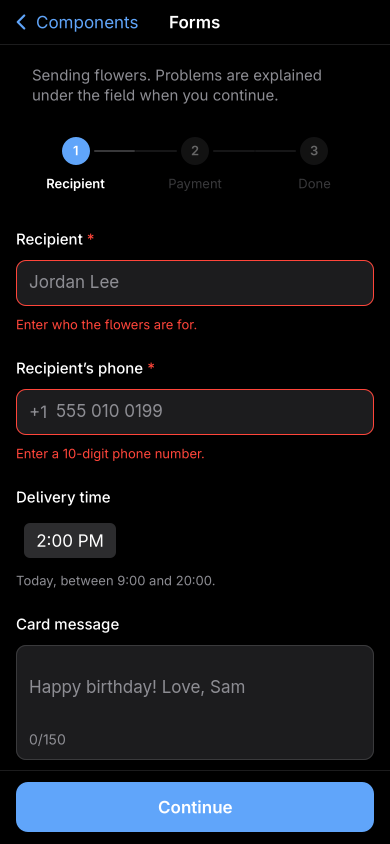
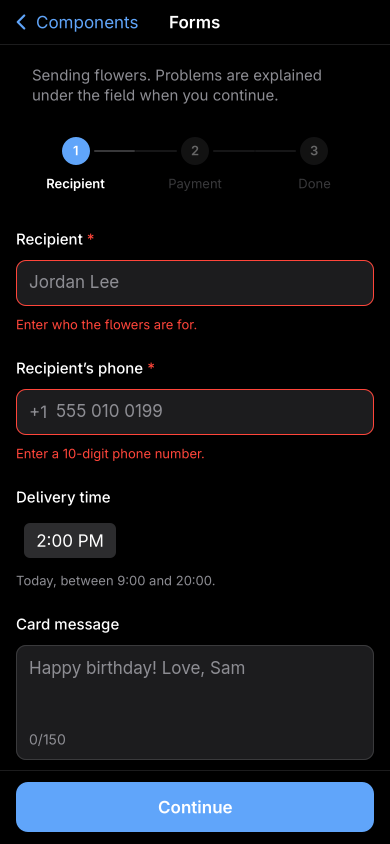
Linux: the Forms card message is multi-line; screenshots re-shot

Changed region(s): [[0.0615, 0.7701, 0.6154, 0.8318]]

diff --git a/platforms/linux/tests/component_forms.rs b/platforms/linux/tests/component_forms.rs
@@ -48,6 +48,17 @@ fn type_into(f: &Fixture, test_id: &str, text: &str) {
     panic!("no editable text in {test_id:?}");
 }
 
+fn contains(root: &gtk::Widget, matches: &dyn Fn(&gtk::Widget) -> bool) -> bool {
+    let mut child = root.first_child();
+    while let Some(c) = child {
+        if matches(&c) || contains(&c, matches) {
+            return true;
+        }
+        child = c.next_sibling();
+    }
+    false
+}
+
 fn screenshots(f: &Fixture, name: &str) {
     f.set_dark(false);
     f.screenshot(format!("screenshots/components-forms-{name}-light.png"));
@@ -58,6 +69,9 @@ fn screenshots(f: &Fixture, name: &str) {
 
 fn forms_checkout() {
     let f = forms_page();
+    // The card message is a multi-line field (an InputGroupTextarea), so its
+    // placeholder sits on the first line instead of centering in the box.
+    assert!(contains(&f.expect("message-input"), &|w| w.is::<gtk::TextView>()), "the card message is multi-line");
     f.click("continue");
     f.expect("name-error");
     screenshots(&f, "recipient-errors");
